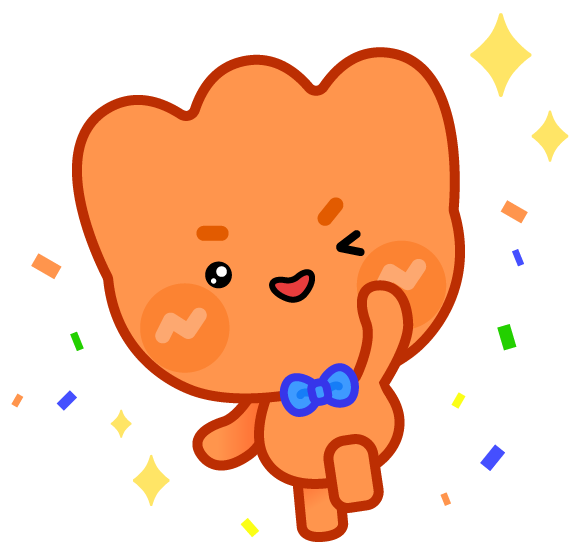
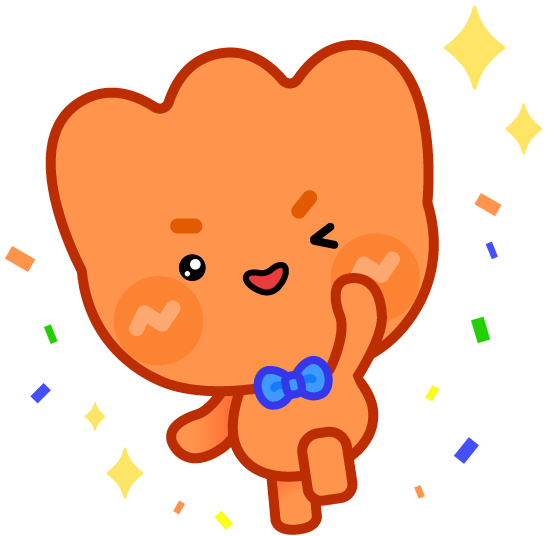
뒷배경이미지 변경, 캐릭터/배너 파일 추가

diff --git a/src/pages/Completed.js b/src/pages/Completed.js
@@ -90,7 +90,7 @@ const Completed = (props) => {
                 <img
                   src={
                     process.env.PUBLIC_URL +
-                    "/images/illust_exercise_samkki.png"
+                    "/images/illust_greatjob_samkki.png"
                   }
                   alt="상단 캐릭터 일러스트"
                   style={{ height: "26.77vh" }}

diff --git a/src/shared/App.js b/src/shared/App.js
@@ -95,7 +95,7 @@ const Container = styled.div`
   align-items: center;
   overflow: hidden;
   position: relative; //absolute를 쓸때 영역을 잡아주는 역할
-  background: url("/images/text.png");
+  background: url("/banner/background_banner.png");
   background-size: cover;
   scrollbar-width: none;
   ::-webkit-scrollbar {
